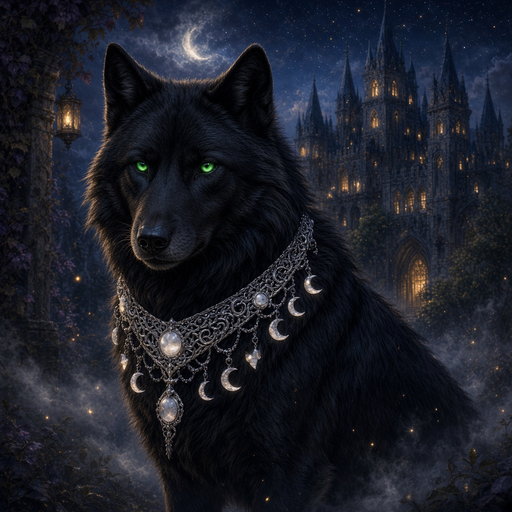
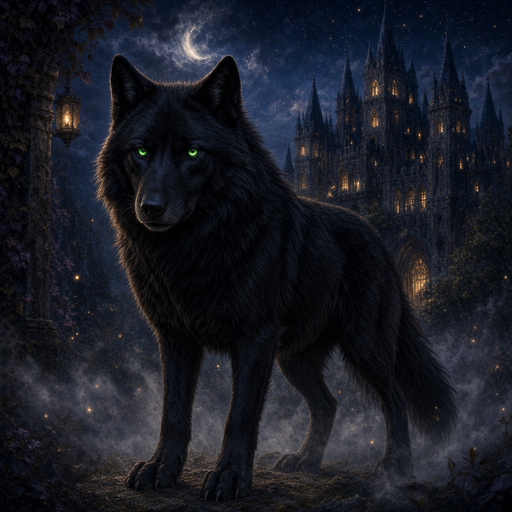
Headmaster wolf: drop the chain; rewrite reading for pack and calculation.
Black wolf, green eyes only. Text now covers reading the room, calculating
the next move, and doing right by the pack.

diff --git a/cogs/animagus.py b/cogs/animagus.py
@@ -145,11 +145,13 @@ def forced_animagus(user_id: int) -> dict | None:
             "animal": "Wolf",
             "form": (
                 "Your bones settle into black fur before you can argue — "
-                "emerald eyes open, and the silver moon chain rests cold against your throat."
+                "emerald eyes open on the dark, already measuring the ground ahead."
             ),
             "reading": (
-                "A black wolf with green eyes, the moon chain catching every scrap of light. "
-                "Loyal to the pack above everything — that is what you already were."
+                "A black wolf with green eyes. You are always reading the room, "
+                "calculating the next move before anyone else has finished speaking — "
+                "not for show, but so the pack comes out ahead. You do your best for them, "
+                "every angle worked, every loyalty earned. That is what you already were."
             ),
             "sound": FORMS["Wolf"][1],
             "art": "headmaster",
